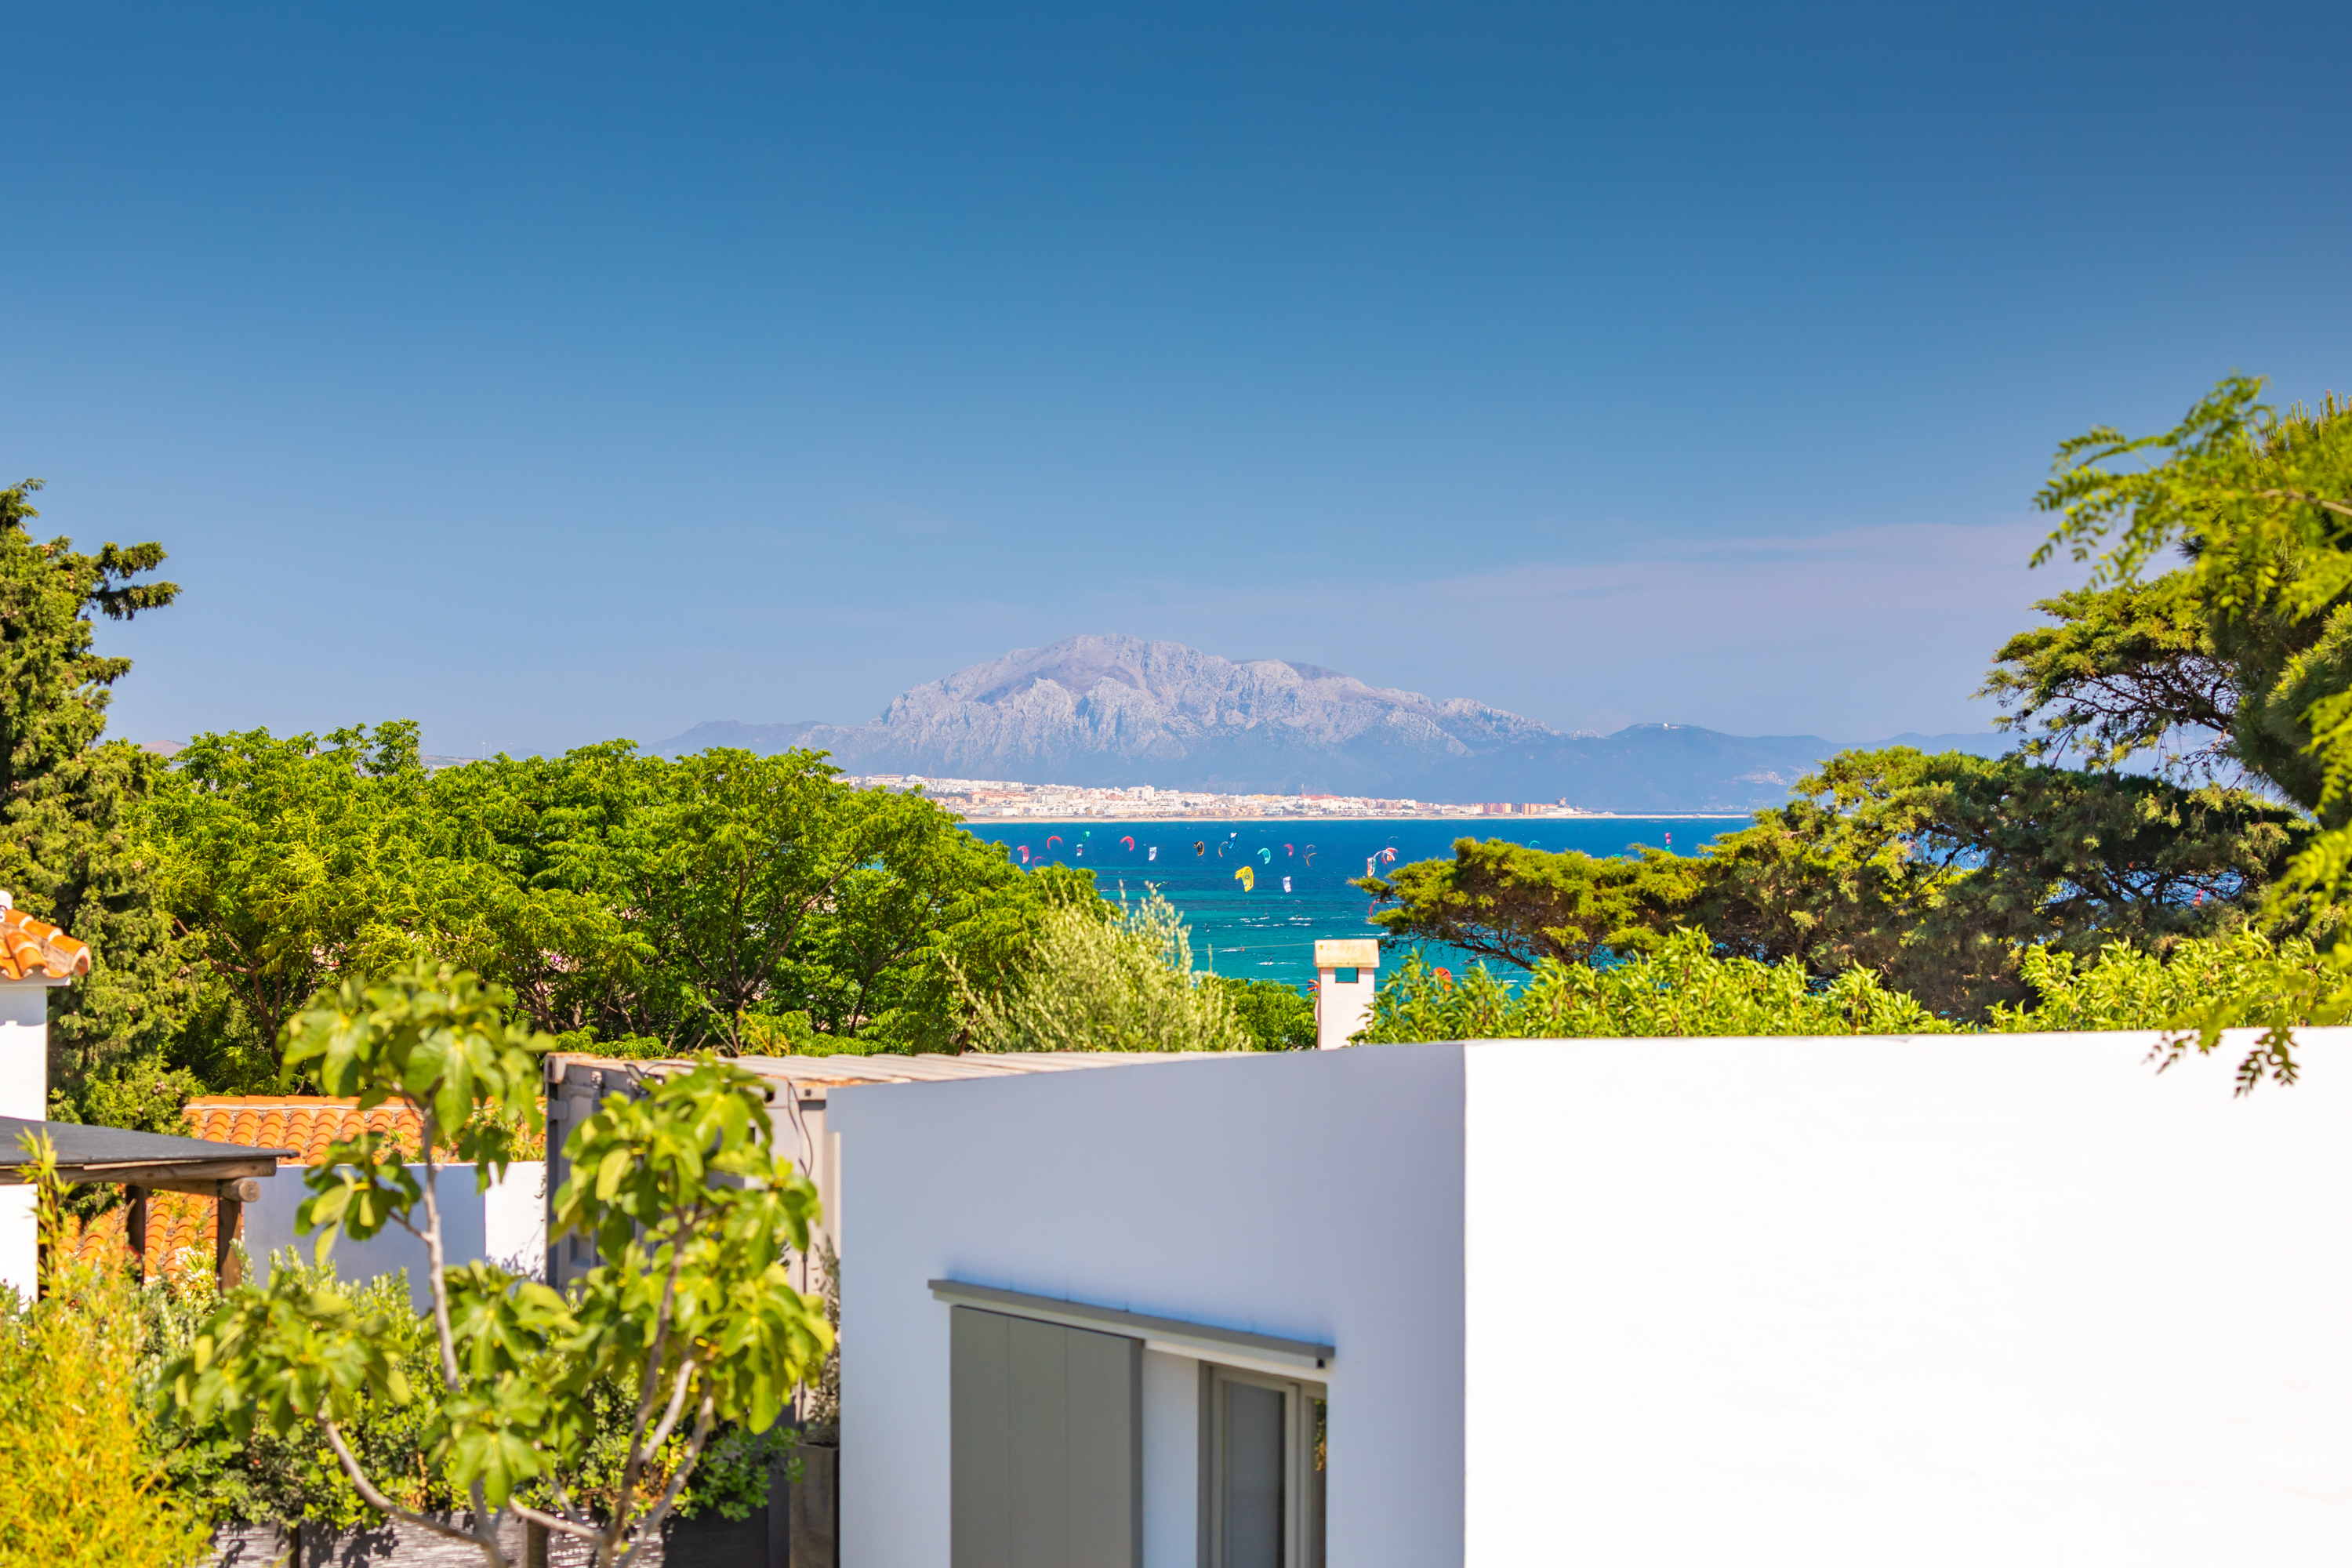
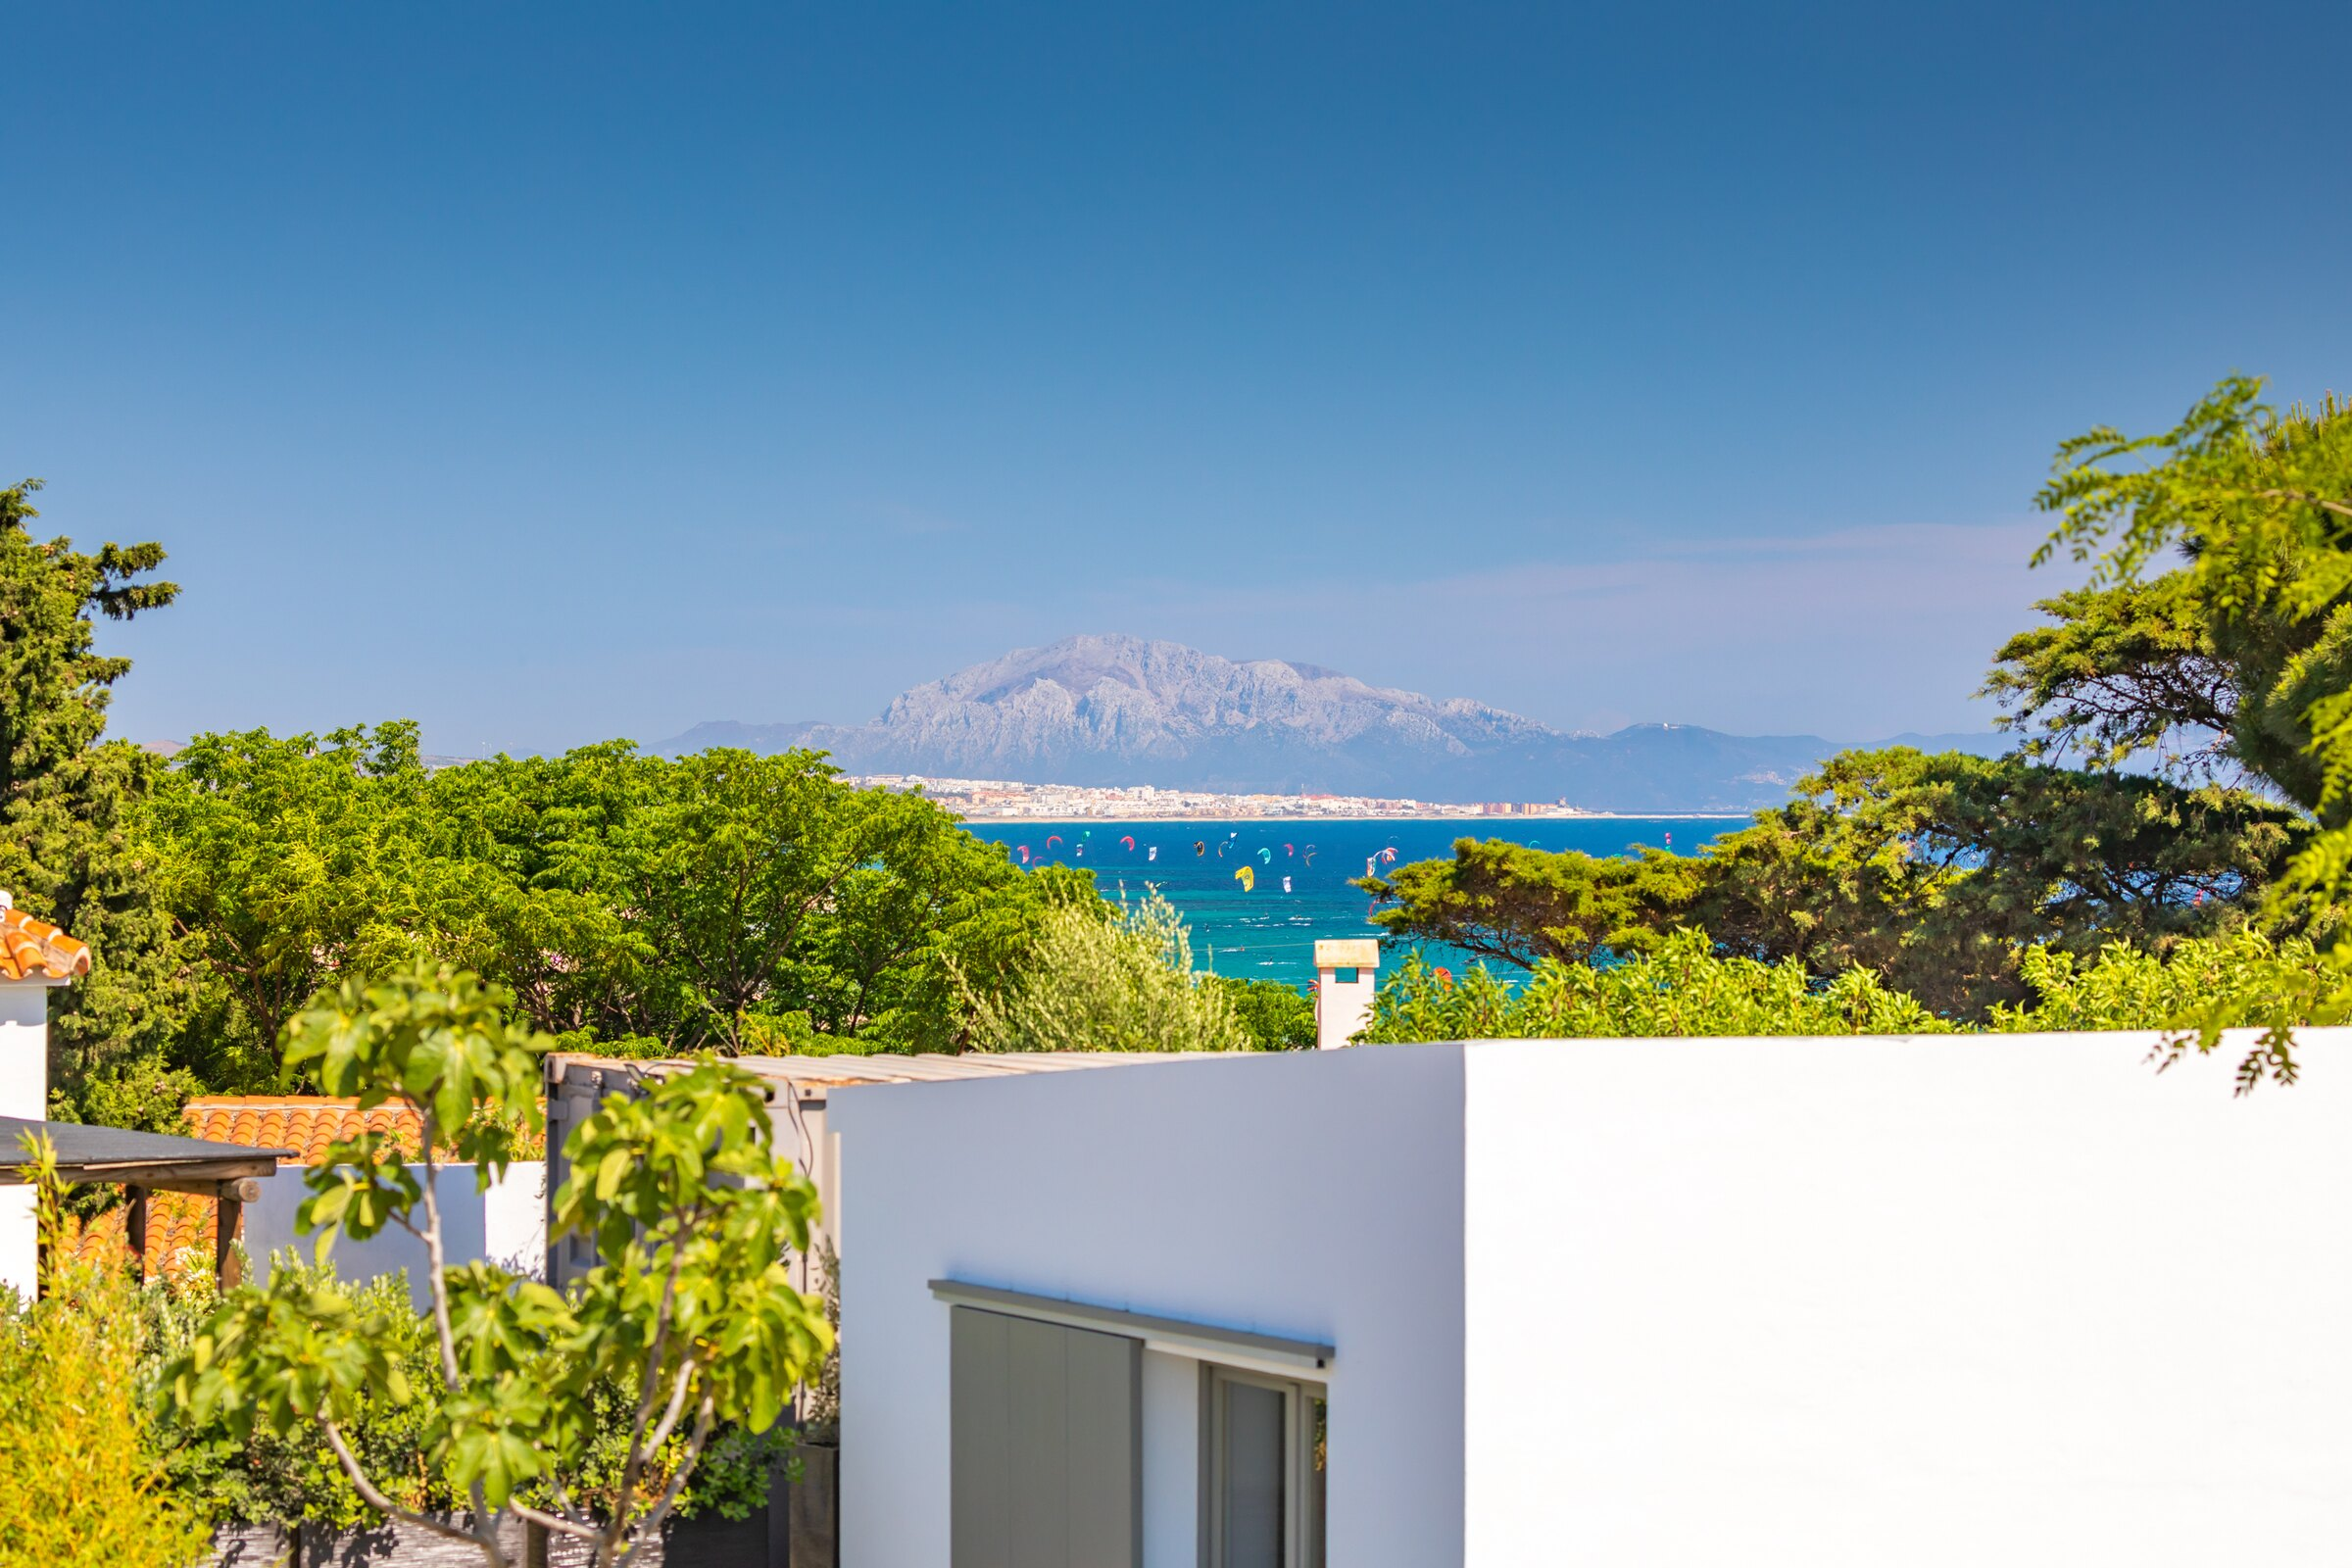
about: san mateo strip — FincaSection with 5-photo layout (portal big + palm/entrance/bird/park 2×2); recompress estate jpgs to ~1MB

diff --git a/src/components/landing/AboutSection.tsx b/src/components/landing/AboutSection.tsx
@@ -2,10 +2,29 @@
 
 import { motion } from 'framer-motion';
 import Link from 'next/link';
+import Image from 'next/image';
 import { Plane, Ship, MapPin, Mail } from 'lucide-react';
 import fincaData from '@config/finca.json';
 import travel from '@config/travel.json';
 import { HostsSpotlight } from './HostsSpotlight';
+
+// ============================================================================
+// FINCA_IMAGES — the five photos that make up the "San Mateo" strip.
+//   main = the big 2×2 hero on the left
+//   grid = the 2×2 right-side mosaic, in reading order (top-left, top-right,
+//          bottom-left, bottom-right) — change the order here, the layout
+//          follows.
+// All photos already live compressed in /public/finca/about/.
+// ============================================================================
+const FINCA_IMAGES = {
+  main: { src: '/finca/about/FincaPortal.jpg', alt: 'Finca San Mateo — the portal' },
+  grid: [
+    { src: '/finca/about/FincaPalm.jpg',     alt: 'Palm trees on the estate' },
+    { src: '/finca/about/FincaEntrance.jpg', alt: 'Finca San Mateo entrance' },
+    { src: '/finca/about/FincaBird.jpg',     alt: 'Bird over the estate' },
+    { src: '/finca/about/FincaPark.jpg',     alt: 'The park / gardens' },
+  ],
+} as const;
 
 function AboutBackgroundText() {
   return (
@@ -17,34 +36,91 @@ function AboutBackgroundText() {
 
 function SpiritSection() {
   return (
-    <div className="lg:col-span-6 flex flex-col justify-center">
-      <motion.div
-        initial={{ opacity: 0, x: -50 }}
-        whileInView={{ opacity: 1, x: 0 }}
-        transition={{ duration: 1, ease: [0.22, 1, 0.36, 1] }}
-        viewport={{ once: true }}
-        className="max-w-xl"
-      >
-        <div className="flex items-center gap-3 mb-8">
-          <div className="h-px w-12 bg-ocean" />
-          <span className="text-xs font-mono uppercase tracking-[0.4em] text-ocean">The Spirit</span>
+    <motion.div
+      initial={{ opacity: 0, x: -50 }}
+      whileInView={{ opacity: 1, x: 0 }}
+      transition={{ duration: 1, ease: [0.22, 1, 0.36, 1] }}
+      viewport={{ once: true }}
+      className="max-w-xl"
+    >
+      <div className="flex items-center gap-3 mb-8">
+        <div className="h-px w-12 bg-ocean" />
+        <span className="text-xs font-mono uppercase tracking-[0.4em] text-ocean">The Spirit</span>
+      </div>
+
+      <h2 className="text-5xl md:text-8xl font-bold text-slate-900 leading-[0.85] uppercase tracking-tighter mb-8">
+        Where the <span className="text-ocean italic">Wind</span> <br />
+        Meets the Soul
+      </h2>
+
+      <div className="flex items-start gap-8">
+        <div className="pt-4">
+          <h4 className="text-sm font-bold uppercase tracking-widest text-slate-900 mb-2">300+ Days of Wind</h4>
+          <p className="text-slate-500 leading-relaxed max-w-sm">
+            {fincaData.location.description}
+          </p>
         </div>
+      </div>
+    </motion.div>
+  );
+}
 
-        <h2 className="text-5xl md:text-8xl font-bold text-slate-900 leading-[0.85] uppercase tracking-tighter mb-12">
-          Where the <span className="text-ocean italic">Wind</span> <br />
-          Meets the Soul
-        </h2>
+// FincaSection — sibling to SpiritSection, sits directly below it in the
+// left column. Heading is the bare brand mark "San Mateo"; the photos do
+// the talking. Layout is a single 4-col × 2-row grid:
+//
+//   ┌──────────────┬───────┬───────┐
+//   │              │ Palm  │ Entr  │   row 1
+//   │   Portal     ├───────┼───────┤
+//   │   (2×2)      │ Bird  │ Park  │   row 2
+//   └──────────────┴───────┴───────┘
+//
+// On mobile (<md): Portal stacks full-width on top, the four grid photos
+// fall into a 2×2 below.
+function FincaSection() {
+  return (
+    <motion.div
+      initial={{ opacity: 0, x: -50 }}
+      whileInView={{ opacity: 1, x: 0 }}
+      transition={{ duration: 1, delay: 0.15, ease: [0.22, 1, 0.36, 1] }}
+      viewport={{ once: true }}
+    >
+      <div className="flex items-center gap-3 mb-8">
+        <div className="h-px w-12 bg-ocean" />
+        <span className="text-xs font-mono uppercase tracking-[0.4em] text-ocean">San Mateo</span>
+      </div>
 
-        <div className="flex items-start gap-8 mb-12">
-          <div className="pt-4">
-            <h4 className="text-sm font-bold uppercase tracking-widest text-slate-900 mb-2">300+ Days of Wind</h4>
-            <p className="text-slate-500 leading-relaxed max-w-sm">
-              {fincaData.location.description}
-            </p>
+
+      {/* Container is wide (aspect 2:1 on md+) so the 4-col × 2-row grid
+          renders each small cell as a square and the Portal as 2×2 squares
+          combined. Gap is tight so the strip reads as one composition. */}
+      <div className="grid grid-cols-2 md:grid-cols-4 md:grid-rows-2 gap-3 md:aspect-[2/1]">
+        <div className="relative col-span-2 md:row-span-2 aspect-[4/5] md:aspect-auto rounded-2xl overflow-hidden bg-slate-100 group">
+          <Image
+            src={FINCA_IMAGES.main.src}
+            alt={FINCA_IMAGES.main.alt}
+            fill
+            sizes="(max-width: 768px) 100vw, (max-width: 1280px) 35vw, 460px"
+            className="object-cover transition-transform duration-700 group-hover:scale-105"
+            priority={false}
+          />
+        </div>
+        {FINCA_IMAGES.grid.map(({ src, alt }) => (
+          <div
+            key={src}
+            className="relative aspect-square md:aspect-auto rounded-2xl overflow-hidden bg-slate-100 group"
+          >
+            <Image
+              src={src}
+              alt={alt}
+              fill
+              sizes="(max-width: 768px) 50vw, (max-width: 1280px) 17vw, 220px"
+              className="object-cover transition-transform duration-700 group-hover:scale-105"
+            />
           </div>
-        </div>
-      </motion.div>
-    </div>
+        ))}
+      </div>
+    </motion.div>
   );
 }
 
@@ -120,7 +196,12 @@ function AboutContent() {
   return (
     <div className="max-w-[1400px] mx-auto relative z-10">
       <div className="grid grid-cols-1 lg:grid-cols-12 gap-12 lg:gap-24">
-        <SpiritSection />
+        {/* Left column: Spirit + Finca stacked. Gap is generous so the two
+            sections read as separate gestures, not a single wall of copy. */}
+        <div className="lg:col-span-6 flex flex-col gap-12">
+          <SpiritSection />
+          <FincaSection />
+        </div>
 
         <div className="lg:col-span-6 lg:pl-12 flex flex-col gap-12">
           <TravelGrid />